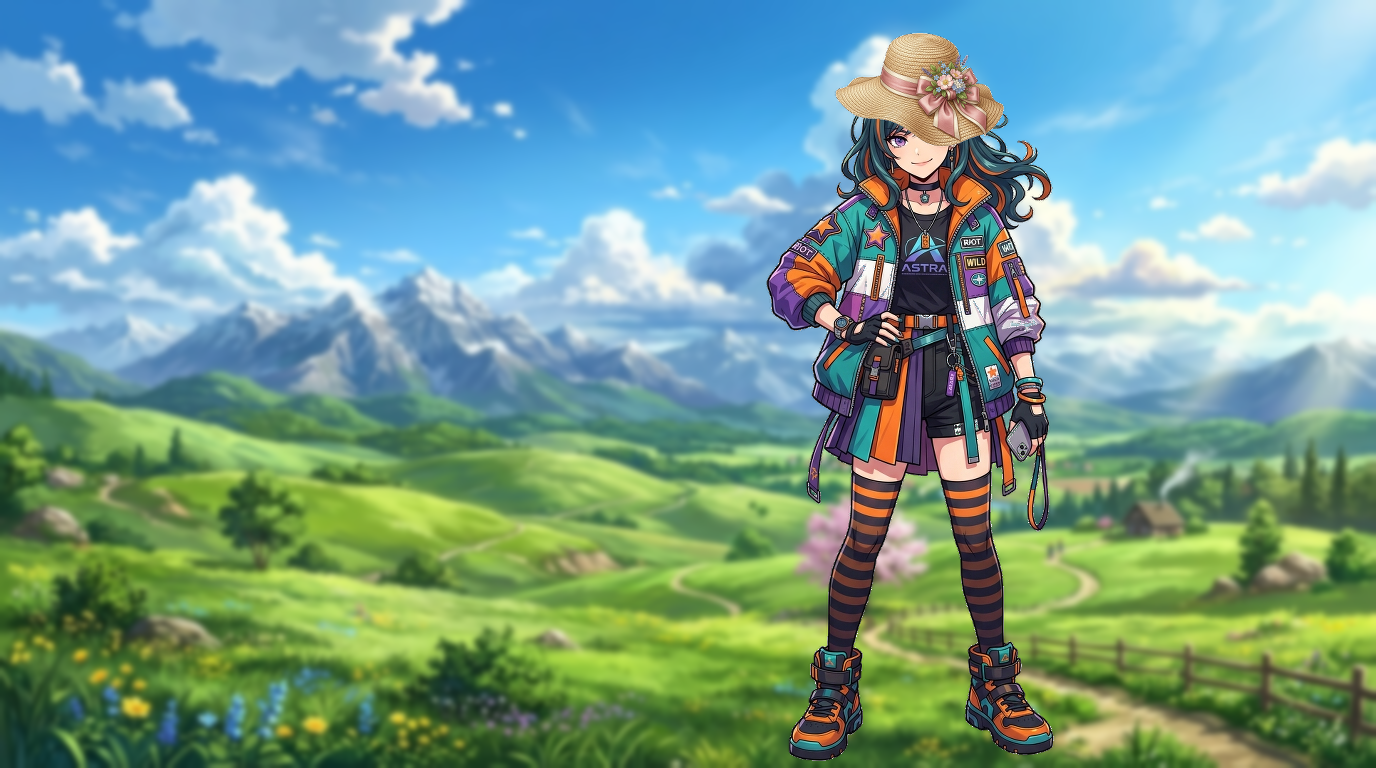
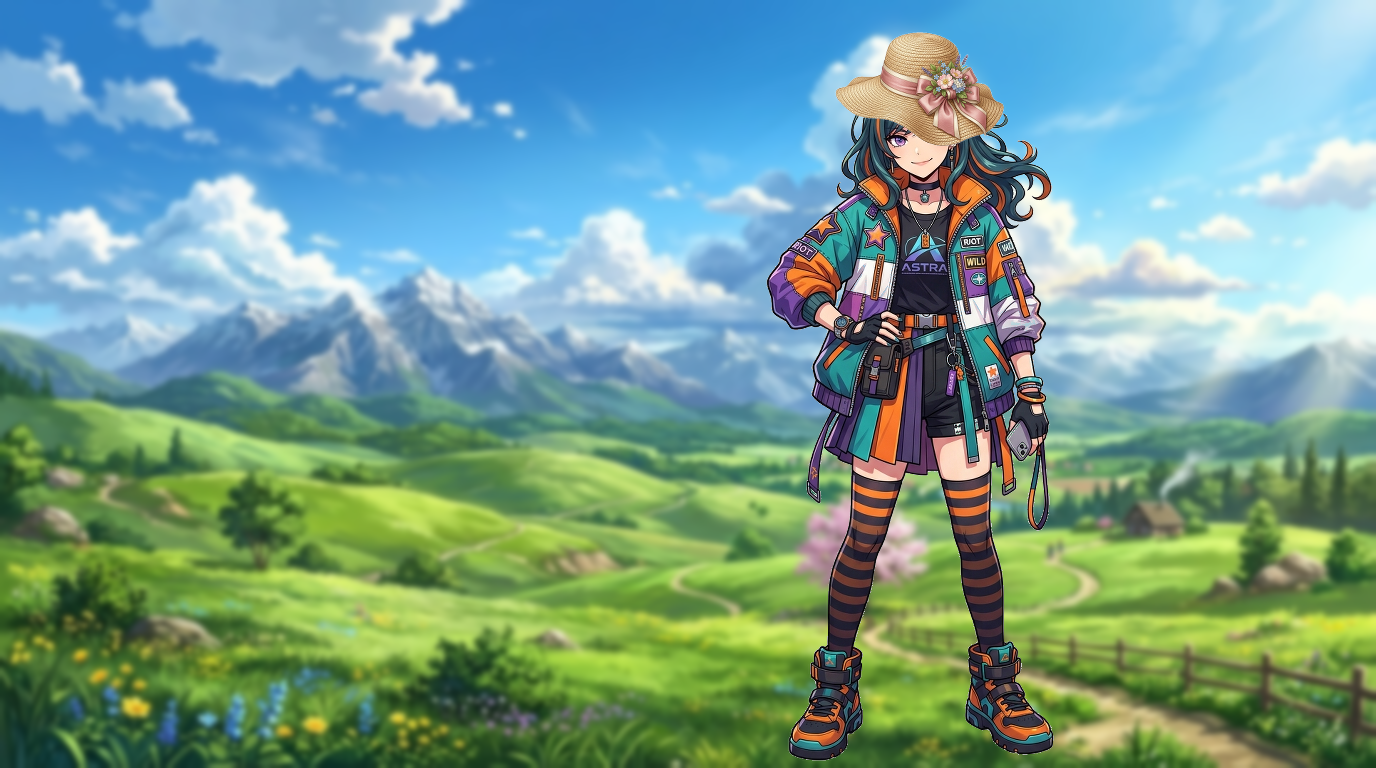
refactor: converte propertys de FitContext em métodos e atualiza exemplo para usar merge
- Transforma os cálculos de enquadramento proporcional de FitContext em métodos parametrizáveis (fit_contain, fit_cover, scale_width, scale_height), simplificando o construtor para receber apenas (target, ref).
- Atualiza assets/example.py e README.md para demonstrar o uso de combine.merge com GroupContentStrategy.
- Atualiza testes unitários, testes de integração e documentação em docs/content.md.

diff --git a/src/anicrop/content.py b/src/anicrop/content.py
@@ -162,43 +162,39 @@ class GroupContentStrategy(BaseContentStrategy):
 
 
 class FitContext:
-    """Encapsula o par (target, ref) e os fatores de alinhamento para cálculo proporcional."""
+    """Encapsula o par (target, ref) para cálculos proporcionais de enquadramento."""
 
     def __init__(
         self,
         target: AbstractBaseLayer,
         ref: tuple | Region | AbstractCanvas | AbstractBaseLayer,
-        x_factor: float = 0.5,
-        y_factor: float = 0.5,
-    ):
+    ) -> None:
         self.target = target
         self.ref_region = resolve_crop_region(ref)  # type: ignore[arg-type]
-        self.x_factor = x_factor
-        self.y_factor = y_factor
 
-    @property
-    def fit_contain(self) -> tuple[AbstractBaseLayer, Region]:
+    def fit_contain(
+        self, x_factor: float = 0.5, y_factor: float = 0.5
+    ) -> tuple[AbstractBaseLayer, Region]:
         """Calcula o enquadramento proporcional 'contain' e retorna (target, ref_resolvida)."""
         resolved = self.target.global_region.fit_contain(
-            self.ref_region, self.x_factor, self.y_factor
+            self.ref_region, x_factor, y_factor
         )
         return self.target, resolved
 
-    @property
-    def fit_cover(self) -> tuple[AbstractBaseLayer, Region]:
+    def fit_cover(
+        self, x_factor: float = 0.5, y_factor: float = 0.5
+    ) -> tuple[AbstractBaseLayer, Region]:
         """Calcula o enquadramento proporcional 'cover' e retorna (target, ref_resolvida)."""
         resolved = self.target.global_region.fit_cover(
-            self.ref_region, self.x_factor, self.y_factor
+            self.ref_region, x_factor, y_factor
         )
         return self.target, resolved
 
-    @property
     def scale_width(self) -> tuple[AbstractBaseLayer, Region]:
         """Calcula a escala proporcional ajustando à largura de ref e retorna (target, ref_resolvida)."""
         resolved = self.target.global_region.scale_width(self.ref_region.width)
         return self.target, resolved
 
-    @property
     def scale_height(self) -> tuple[AbstractBaseLayer, Region]:
         """Calcula a escala proporcional ajustando à altura de ref e retorna (target, ref_resolvida)."""
         resolved = self.target.global_region.scale_height(self.ref_region.height)

diff --git a/tests/test_content.py b/tests/test_content.py
@@ -195,7 +195,7 @@ def test_content_fit_helper_contain_dispatch():
 
     # Contain 200x100 em 100x100 -> 100x50 centralizado em (0, 25)
     cf = FitContext(layer, canvas)
-    result = content.fit(cf.fit_contain)
+    result = content.fit(cf.fit_contain())
 
     assert result is True
     assert layer.global_region == Region.from_rect(0, 25, 100, 50)
@@ -210,7 +210,7 @@ def test_content_fit_helper_cover_dispatch():
 
     # Cover 200x100 em 100x100 -> 200x100 centralizado em (-50, 0)
     cf = FitContext(layer, canvas)
-    result = content.fit(cf.fit_cover)
+    result = content.fit(cf.fit_cover())
 
     assert result is True
     assert layer.global_region == Region.from_rect(-50, 0, 200, 100)
@@ -223,24 +223,24 @@ def test_content_fit_helper_scale_width_and_height():
     content = Content()
 
     cf_w = FitContext(layer, (0, 0, 400, 100))
-    content.fit(cf_w.scale_width)
+    content.fit(cf_w.scale_width())
     assert layer.global_region == Region.from_rect(0, 0, 400, 200)
 
     cf_h = FitContext(layer, (0, 0, 100, 100))
-    content.fit(cf_h.scale_height)
+    content.fit(cf_h.scale_height())
     assert layer.global_region == Region.from_rect(0, 0, 200, 100)
 
 
 def test_content_fit_helper_with_custom_factors():
-    """Valida FitContext com fatores de alinhamento customizados passados no construtor."""
+    """Valida FitContext com fatores de alinhamento customizados passados no método fit_contain."""
     data = np.full((100, 200, 4), 255, dtype=np.uint8)  # 200x100 (2:1)
     layer = Layer(Image(data, ImageFormat.RGBA))
     canvas = Canvas.from_size(100, 100)
     content = Content()
 
     # Alinhamento no canto superior esquerdo (0.0, 0.0)
-    cf = FitContext(layer, canvas, x_factor=0.0, y_factor=0.0)
-    content.fit(cf.fit_contain)
+    cf = FitContext(layer, canvas)
+    content.fit(cf.fit_contain(x_factor=0.0, y_factor=0.0))
     assert layer.global_region == Region.from_rect(0, 0, 100, 50)
 
 

diff --git a/assets/example.py b/assets/example.py
@@ -19,11 +19,11 @@ chapeu.content.resize(250, 250)
 # 4. Alinha o chapéu no topo da cabeça da personagem diretamente via .layout
 chapeu.layout.align(personagem, anchor_x=0.51, anchor_y=-0.07)
 
-# 5. Achata o chapéu com a personagem em uma única camada (Merge Down: Chapéu + 1 camada abaixo)
-heroina = doc.combine.flatten("Chapeu", name="Heroina", count=1)
+# 5. Agrupa o chapéu com a personagem em um grupo não-destrutivo (Merge Down: Chapéu + 1 camada abaixo)
+heroina = doc.combine.merge("Chapeu", name="Heroina", count=1)
 
 # 6. Enquadra a heroína proporcionalmente para caber na altura do Canvas (fit_contain)
-fit_payload = FitContext(heroina, doc.canvas).fit_contain
+fit_payload = FitContext(heroina, doc.canvas).fit_contain()
 heroina.content.fit(fit_payload)
 
 # 7. Posiciona a heroína no lado direito do cenário diretamente via .layout

diff --git a/tests/test_group_content.py b/tests/test_group_content.py
@@ -171,8 +171,8 @@ def test_group_content_fit_context():
     canvas = Canvas(Region.from_size(500, 500))
     content = Content()
 
-    ctx = FitContext(group, canvas, x_factor=0.5, y_factor=0.5)
-    result = content.fit(ctx.fit_contain)
+    ctx = FitContext(group, canvas)
+    result = content.fit(ctx.fit_contain(x_factor=0.5, y_factor=0.5))
 
     assert result is True
     assert group.global_region.size == (500, 250)

diff --git a/tests/integration/test_content_history.py b/tests/integration/test_content_history.py
@@ -74,7 +74,7 @@ def test_fit_helper_contain_undo_single_step_restores_and_empties_history():
     doc.history._undo_stack.clear()
     initial_region = layer.global_region
 
-    doc.content.fit(FitContext(layer, doc.canvas).fit_contain)
+    doc.content.fit(FitContext(layer, doc.canvas).fit_contain())
     assert layer.global_region == Region.from_rect(0, 25, 100, 50)
 
     doc.history.undo()

diff --git a/docs/content.md b/docs/content.md
@@ -83,20 +83,20 @@ doc.content.flip_x(doc["grupo_personagens"])
 
 A classe `FitContext` permite calcular enquadramentos proporcionais complexos antes de aplicá-los em camadas ou grupos:
 
-- **`fit_contain`**: Redimensiona proporcionalmente para caber totalmente dentro de `ref` sem cortar nada.
-- **`fit_cover`**: Redimensiona proporcionalmente para cobrir totalmente `ref` (com corte das sobras).
-- **`scale_width`**: Ajusta proporcionalmente travando a largura em `ref.width`.
-- **`scale_height`**: Ajusta proporcionalmente travando a altura em `ref.height`.
+- **`fit_contain(x_factor=0.5, y_factor=0.5)`**: Redimensiona proporcionalmente para caber totalmente dentro de `ref` sem cortar nada.
+- **`fit_cover(x_factor=0.5, y_factor=0.5)`**: Redimensiona proporcionalmente para cobrir totalmente `ref` (com corte das sobras).
+- **`scale_width()`**: Ajusta proporcionalmente travando a largura em `ref.width`.
+- **`scale_height()`**: Ajusta proporcionalmente travando a altura em `ref.height`.
 
 ### Exemplo de Uso com `FitContext`:
 ```python
 from anicrop.content import FitContext
 
-# Calcula o enquadramento proporcional "contain" centralizado para um grupo:
-ctx = FitContext(doc["grupo_logos"], doc.canvas, x_factor=0.5, y_factor=0.5)
+# Cria o contexto de ajuste:
+ctx = FitContext(doc["grupo_logos"], doc.canvas)
 
 # Aplica o resultado calculado no motor de Content:
-doc.content.fit(ctx.fit_contain)
+doc.content.fit(ctx.fit_contain(x_factor=0.5, y_factor=0.5))
 ```
 
 ---

diff --git a/README.md b/README.md
@@ -79,11 +79,11 @@ chapeu.content.resize(250, 250)
 # 4. Alinha o chapéu no topo da cabeça da personagem diretamente via .layout
 chapeu.layout.align(personagem, anchor_x=0.51, anchor_y=-0.07)
 
-# 5. Achata o chapéu com a personagem em uma única camada (Merge Down: Chapéu + 1 camada abaixo)
-heroina = doc.combine.flatten("Chapeu", name="Heroina", count=1)
+# 5. Agrupa o chapéu com a personagem em um grupo não-destrutivo (Merge Down: Chapéu + 1 camada abaixo)
+heroina = doc.combine.merge("Chapeu", name="Heroina", count=1)
 
 # 6. Enquadra a heroína proporcionalmente para caber na altura do Canvas (fit_contain)
-fit_payload = FitContext(heroina, doc.canvas).fit_contain
+fit_payload = FitContext(heroina, doc.canvas).fit_contain()
 heroina.content.fit(fit_payload)
 
 # 7. Posiciona a heroína no lado direito do cenário diretamente via .layout
